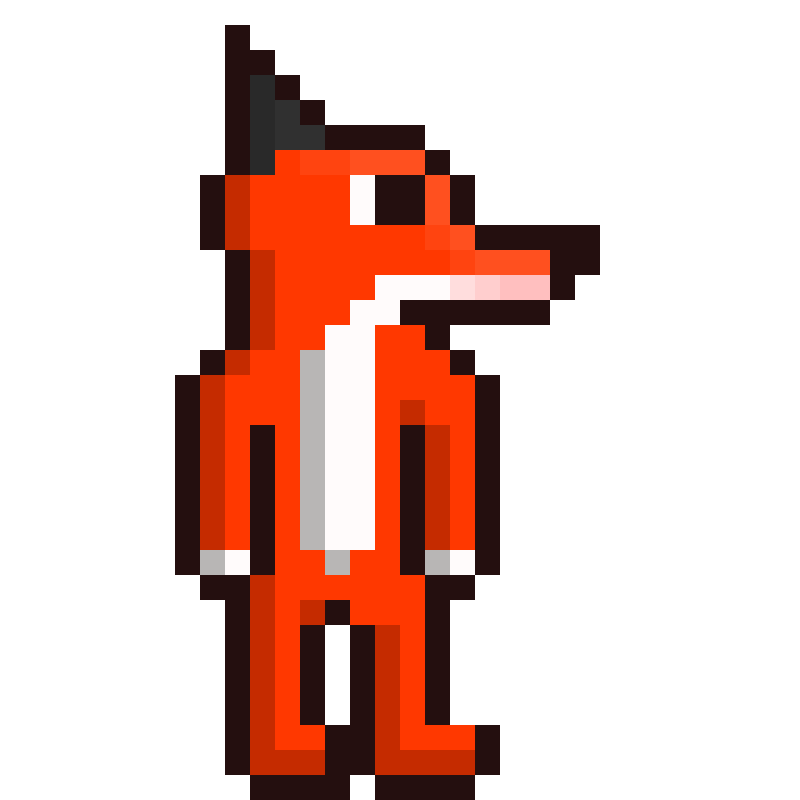
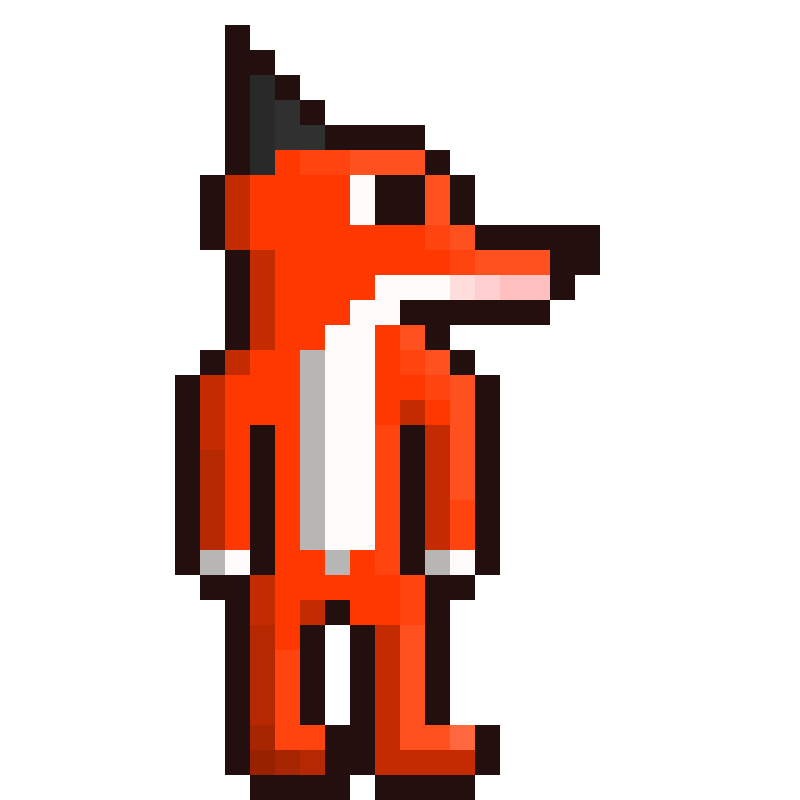
atualizada animação de andar

diff --git a/assets/SuperFox.py b/assets/SuperFox.py
@@ -182,7 +182,7 @@ def load_assets(img_dir, snd_dir):
     assets['background'] = pygame.image.load(path.join(img_dir, 'bg_fase1.png')).convert()
     fox_walk = []
     for i in range(1, 3, 1):
-        filename = 'fox_walk{}.png'.format(i)
+        filename = 'fox_walk1.png'.format(i)
         walk = pygame.image.load(path.join(img_dir, filename)).convert()
         walk = pygame.transform.scale(walk, (70, 58))
         walk.set_colorkey(BLACK)
